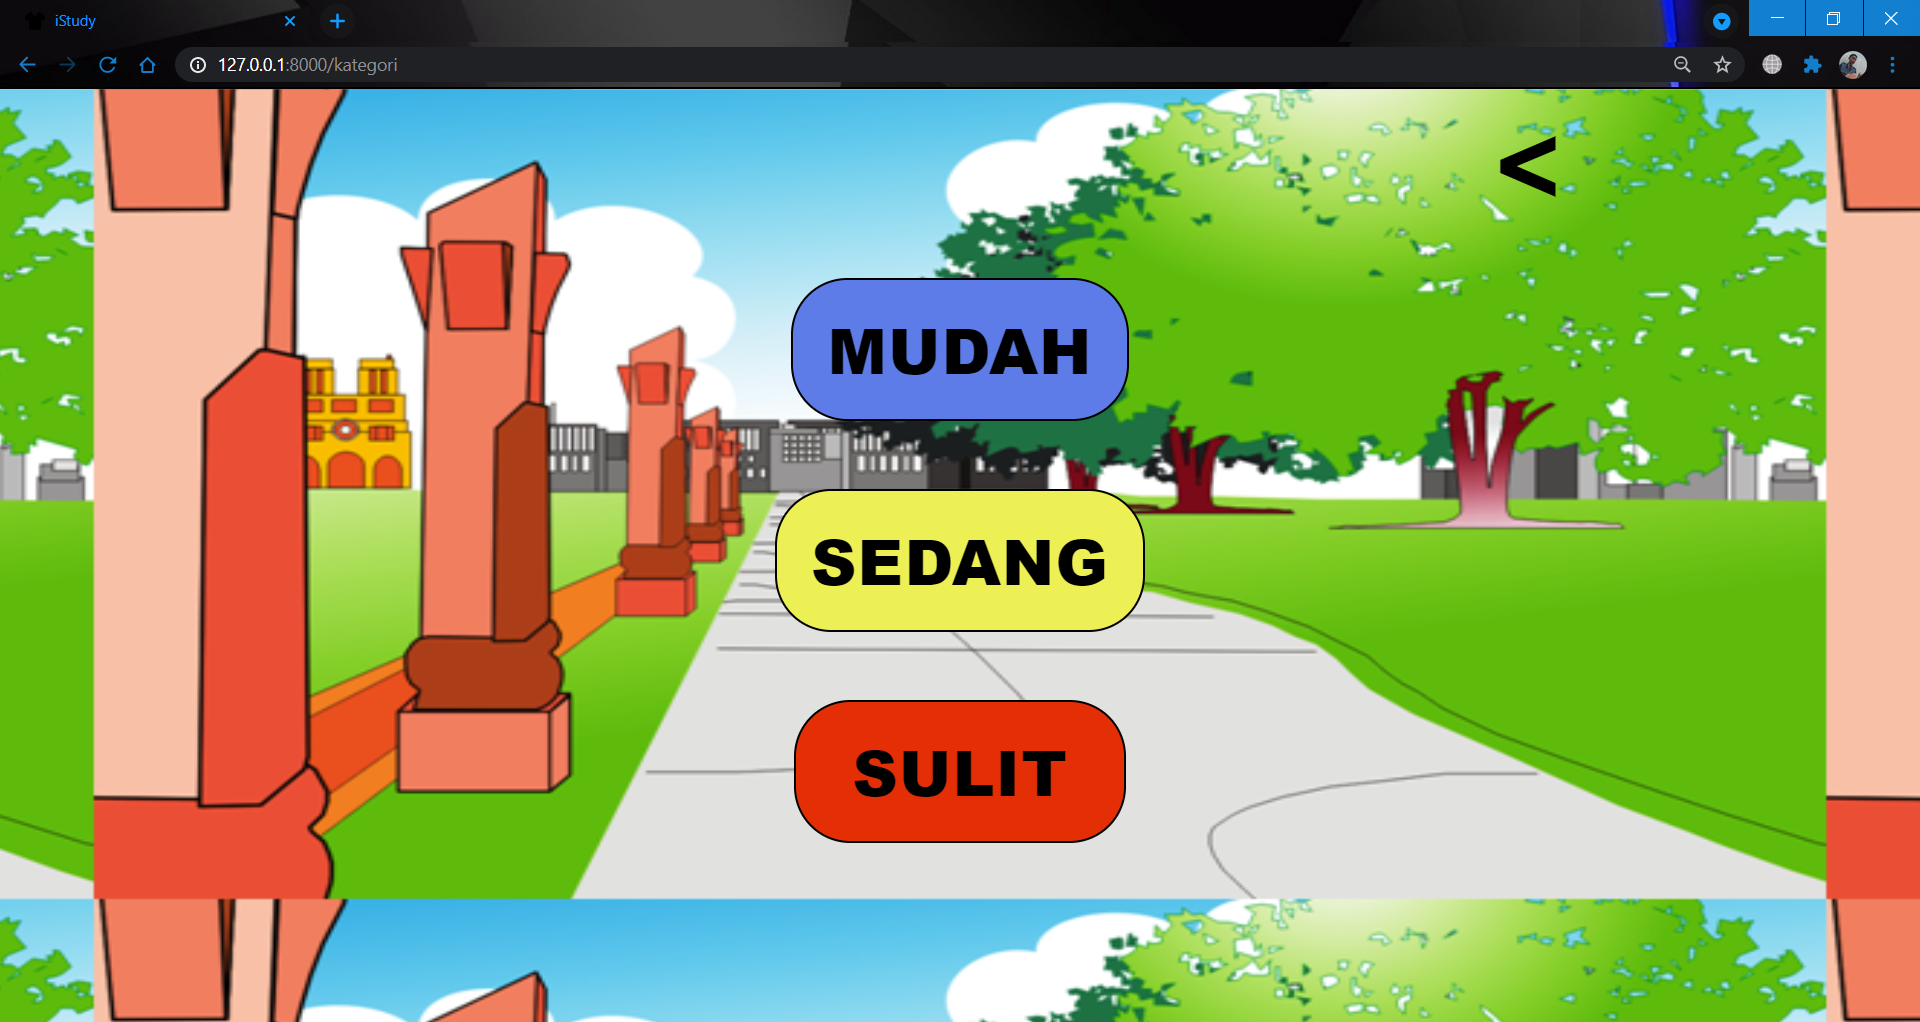
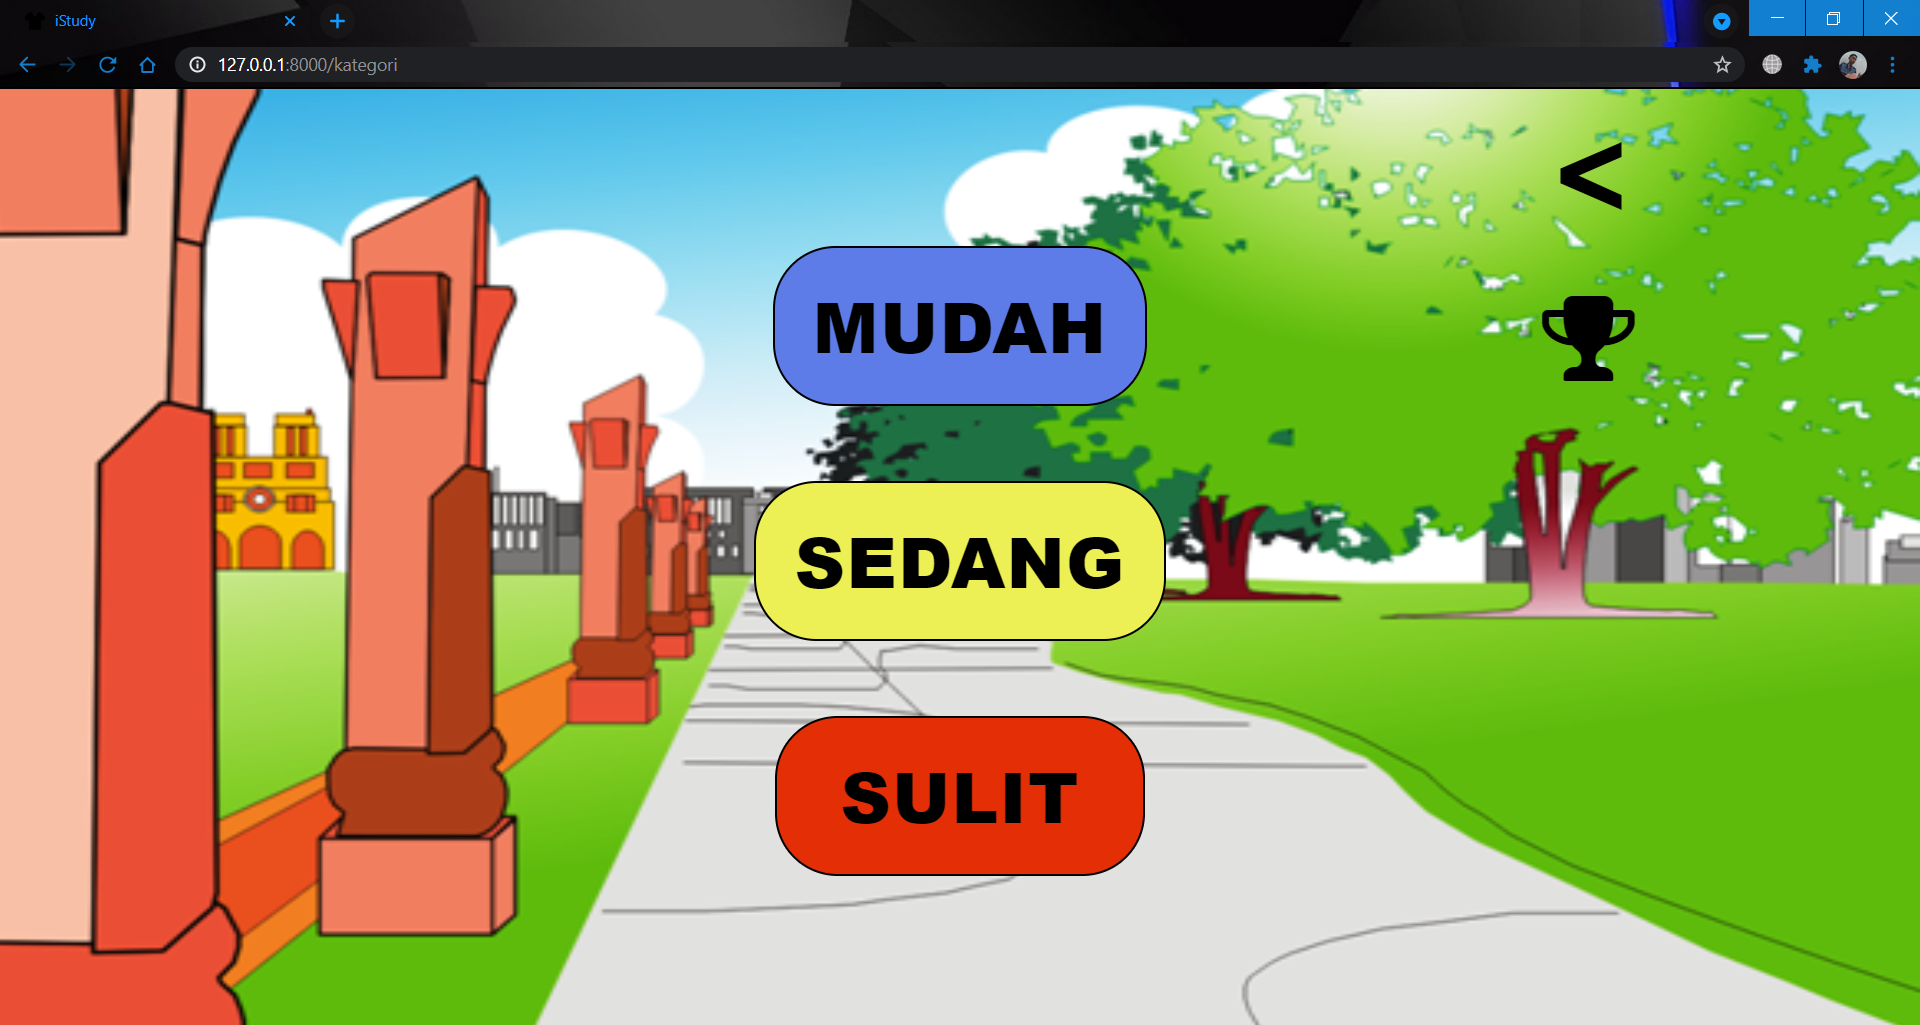
Update Readme.md

diff --git a/README.md b/README.md
@@ -52,10 +52,30 @@ Halaman Product menampilkan semua product yang ada di game. Product yang kami ma
 User dapat memilih tingkat kesulitan.
 
 - Halaman Level mudah
-![](https://github.com/Almasyriqi/project1_web_game/raw/master/screenshot/easy.PNG)
+![](https://github.com/Almasyriqi/project1_web_game/raw/master/screenshot/mudah.PNG)
+Kategori soal mudah akan disajikan dalam bentuk jawaban
+pilihan.
+ Contoh :
+ ![](https://github.com/Almasyriqi/project1_web_game/raw/master/screenshot/soalMudah.PNG)
 
 - Halaman Level Sedang
 ![](https://github.com/Almasyriqi/project1_web_game/raw/master/screenshot/sedang.PNG)
-
+Kategori soal sedang akan disajikan dalam bentuk mengisi jawaban.
+ Contoh :
+ ![](https://github.com/Almasyriqi/project1_web_game/raw/master/screenshot/soalSedang.PNG)
+ 
 - Halaman Level Sulit
 ![](https://github.com/Almasyriqi/project1_web_game/raw/master/screenshot/sulit.PNG)
+Kategori soal sulit sendiri disajikan dengan soal bergambar.
+ Contoh :
+ ![](https://github.com/Almasyriqi/project1_web_game/raw/master/screenshot/soalSulit.PNG)
+
+- Halaman Leaderboard
+Terdapat halaman leaderboard jika klik logo piala pada halaman kategori soal.
+![](https://github.com/Almasyriqi/project1_web_game/raw/master/screenshot/leaderboard.PNG)
+Halaman leaderboard akan menampilkan hasil skor dari para pemain yang telah memulai permainan. 
+
+Note :
+- Semua soal disertai waktu untuk menjawab
+- Ketika kita menjawab dengan jawaban benar maka kita akan mendapatkan notifikasi dengan skor yang ada.
+- Jika pemain tidak segera mengisi jawaban maka pemain akan kehabisan waktu dan otomatis akan keluar dari permainan. 
